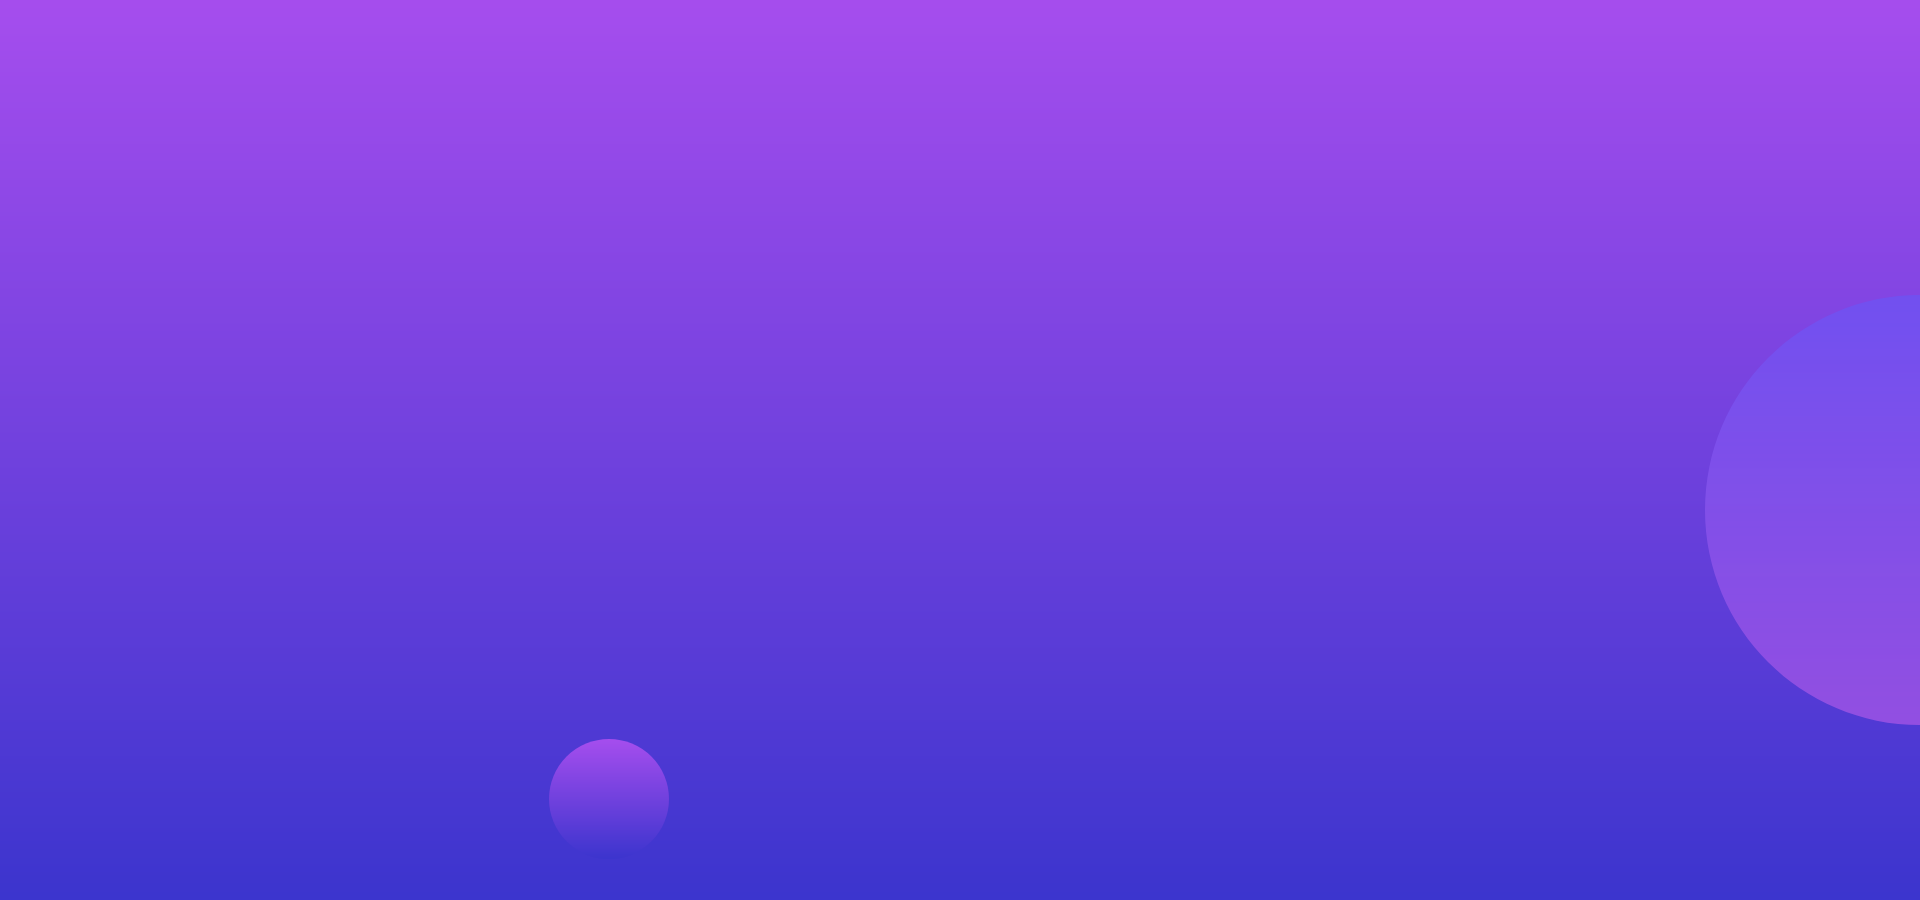
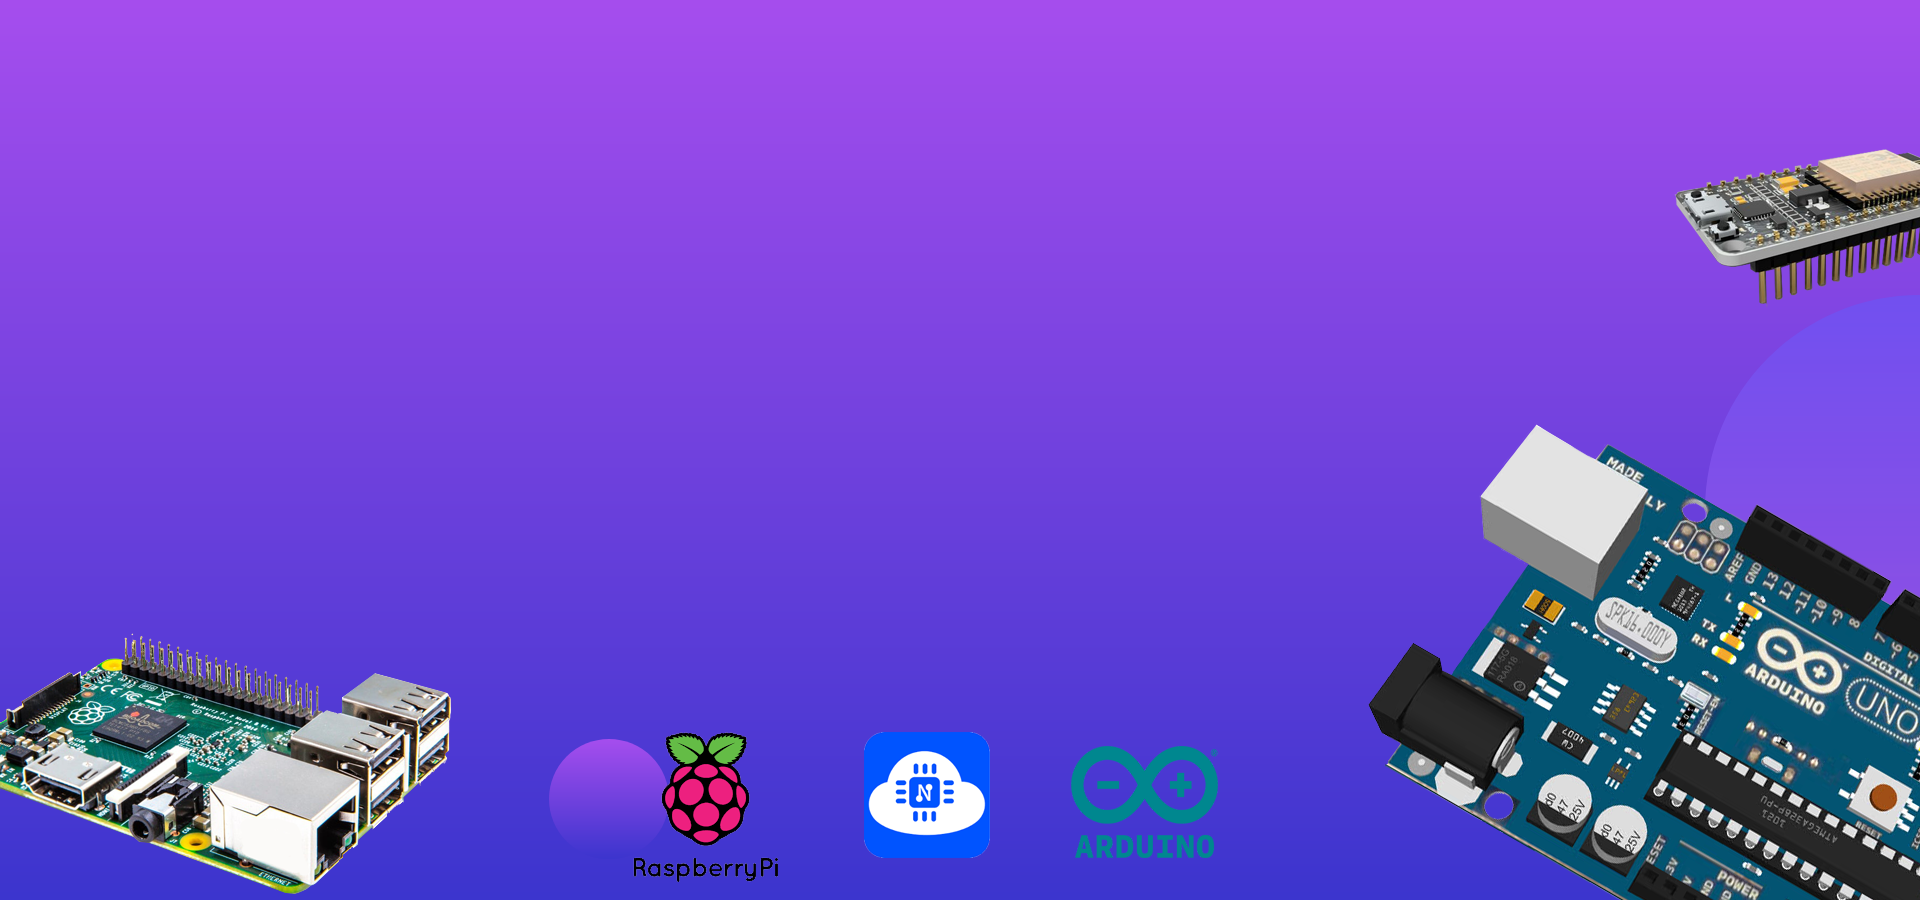
pages added

diff --git a/resources/views/pages/index_.blade.php b/resources/views/pages/index_.blade.php
@@ -15,9 +15,9 @@
                     </div>
                     <div class="col-xl-6 col-md-6">
                         <div class="slider_info">
-                            <h3>Learn Robotics <br>
-                                With Arduino <br>
-                                ආඩුයිනෝ එක්ක රොබොටික්ස් ඉගෙනගමුද ?
+                            <h3>Learn Arduino | Iot | Raspberry Pi <br>
+                               <br>
+                                රොබොටික්ස් ඉගෙනගමුද ?
                                 </h3>
                             <a href="#" class="boxed_btn">Browse Our Courses</a>
                         </div>
